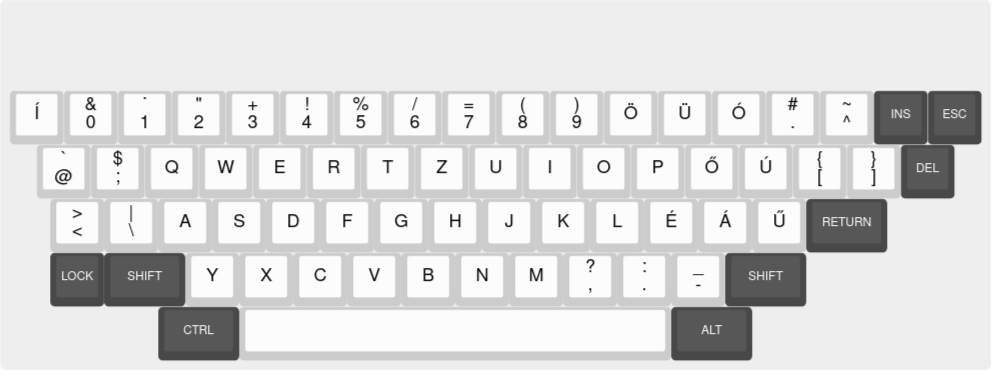
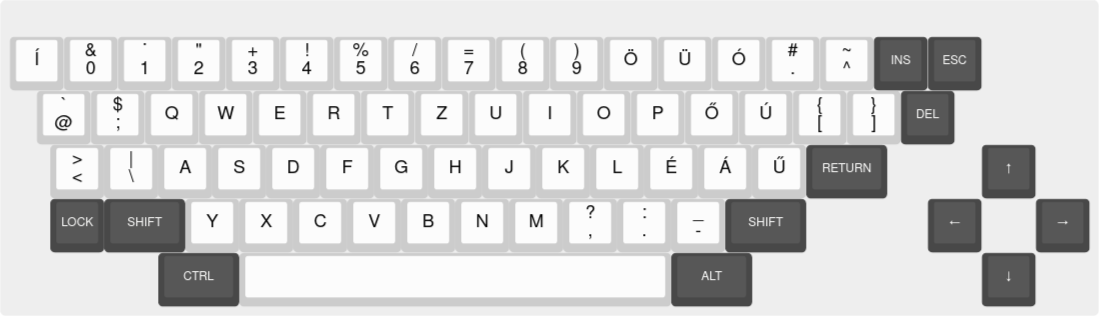
add new ep128emu features, update tvc layout figure

diff --git a/docs/library/ep128emu.md b/docs/library/ep128emu.md
@@ -31,7 +31,7 @@ Content that can be loaded by the ep128emu core have the following file extensio
 - `.tzx` (ZX Spectrum tape image)
 - `.bas`, `.com`, `.trn`, `.128`, `.` (common extensions for Enterprise executable files, including no extension)
 
-From version 1.1.0, emulator core is able to handle mono PCM WAV files with 1..8 bit depth as tape recordings. It is possible to enable libsndfile support during compilation, and then a wider range of formats are recognized, including MP3 if libsndfile version is at least 1.1. Using the `.wav` file extension will trigger the built-in RetroArch media player by default, it can be disabled under Settings / File Browser / Use Built-in Media Player. Rename files to have `.tvcwav` extension to be interpreted as TVC tapes.
+From version 1.1.0, emulator core is able to handle mono PCM WAV files with 1..8 bit depth as tape recordings. It is possible to enable libsndfile support during compilation, and then a wider range of formats are recognized, including MP3 if libsndfile version is at least 1.1. Using the `.wav` file extension will trigger the built-in RetroArch media player by default, it can be disabled under Settings / File Browser / Use Built-in Media Player. Rename `.wav` files to have `.tvcwav` extension to be interpreted as TVC tapes.
 
 RetroArch database(s) that are associated with the ep128emu core:
 
@@ -50,7 +50,7 @@ Frontend-level settings or features that the ep128emu core respects.
 | Netplay           | -         |
 | Core Options      | ✔         |
 | RetroAchievements | ✕         |
-| RetroArch Cheats  | ✕         |
+| RetroArch Cheats  | ✔         |
 | Native Cheats     | ✕         |
 | Controls          | ✔         |
 | Remapping         | -         |
@@ -61,7 +61,7 @@ Frontend-level settings or features that the ep128emu core respects.
 | Location          | ✕         |
 | Subsystem         | ✕         |
 | [Softpatching](../guides/softpatching.md) | ✕         |
-| Disk Control      | ✕         |
+| Disk Control      | ✔         |
 | Username          | ✕         |
 | Language          | ✕         |
 | Crop Overscan     | ✕         |
@@ -93,6 +93,8 @@ The intelligent zoom function can reduce the apparent width/height, aspect ratio
 ## Usage
 
 Load any supported content file. Content type will be autodetected, and if possible, started. Content-specific [configuration file](https://github.com/libretro/ep128emu-core/blob/core/core/sample.ep128cfg) is also loaded if present. Without content, core starts with Enterprise 128 disk configuration.
+
+In case of multi-disk (or multi-tape) games, use the Disk Control menu to add the subsequent images and switch between them. You can also use RetroArch's built-in memory analyzer to set up cheats.
 
 ## Core options
 
